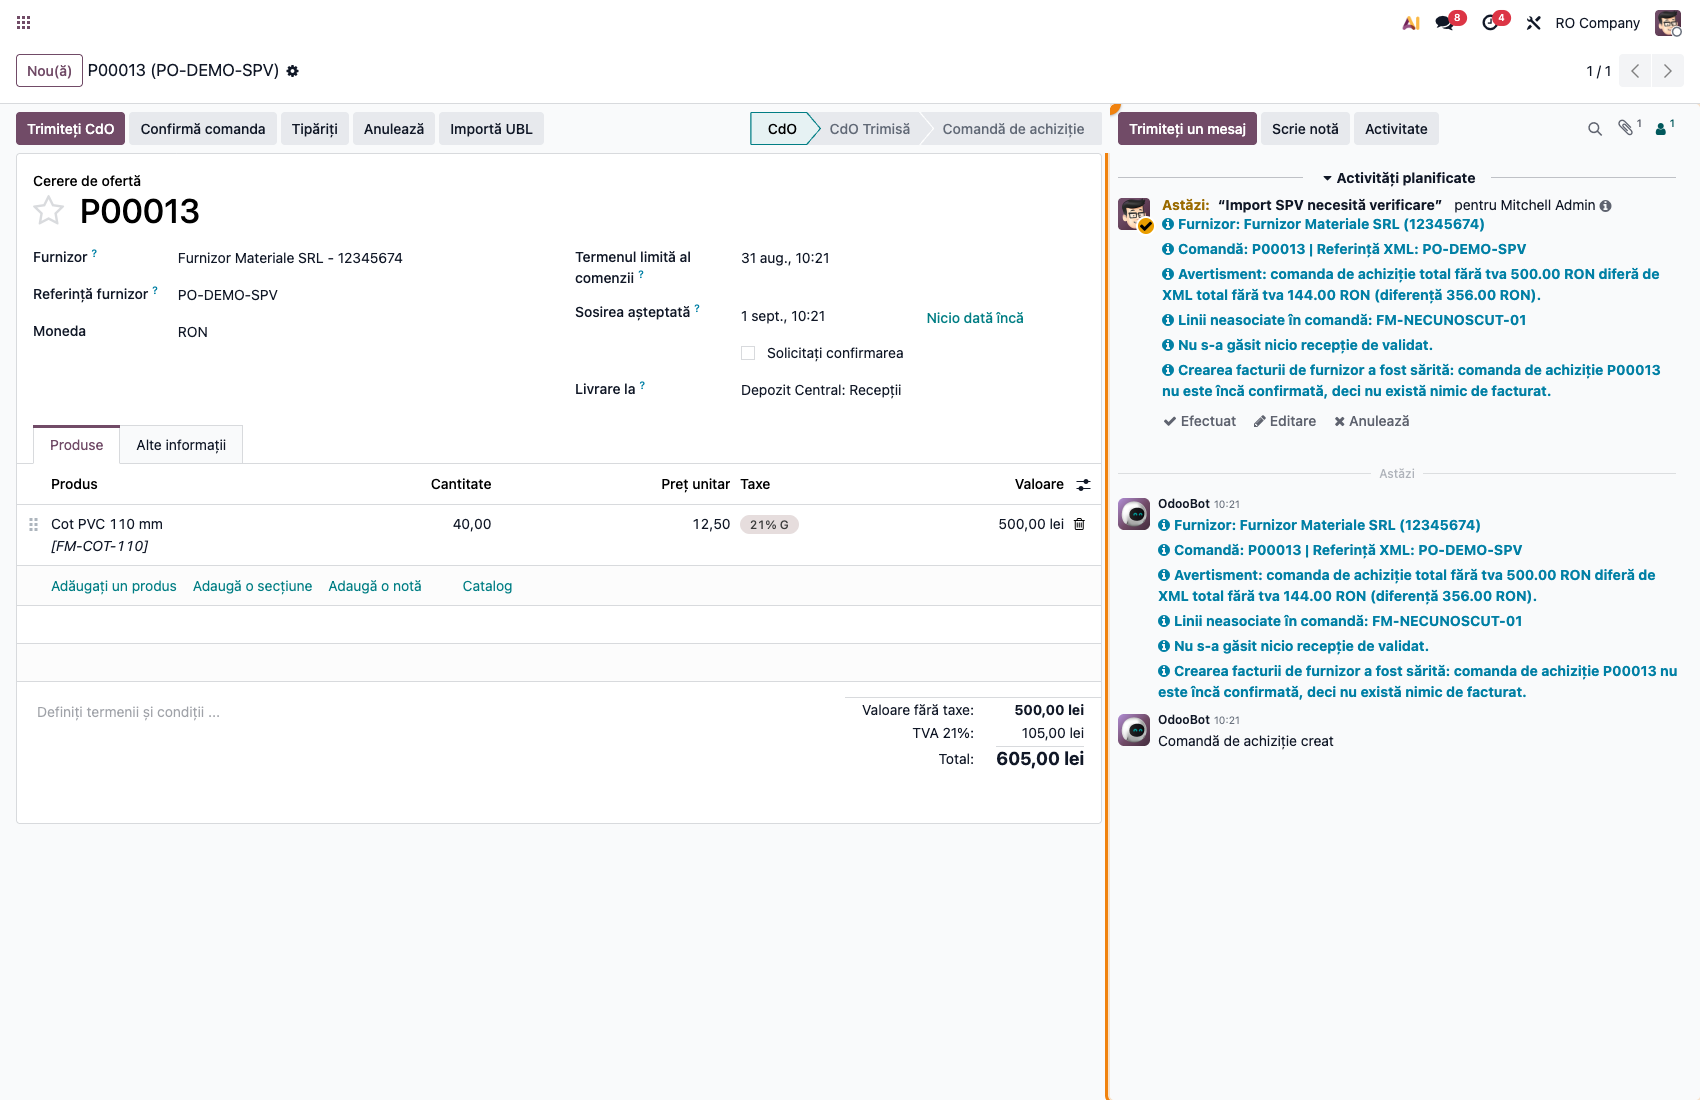
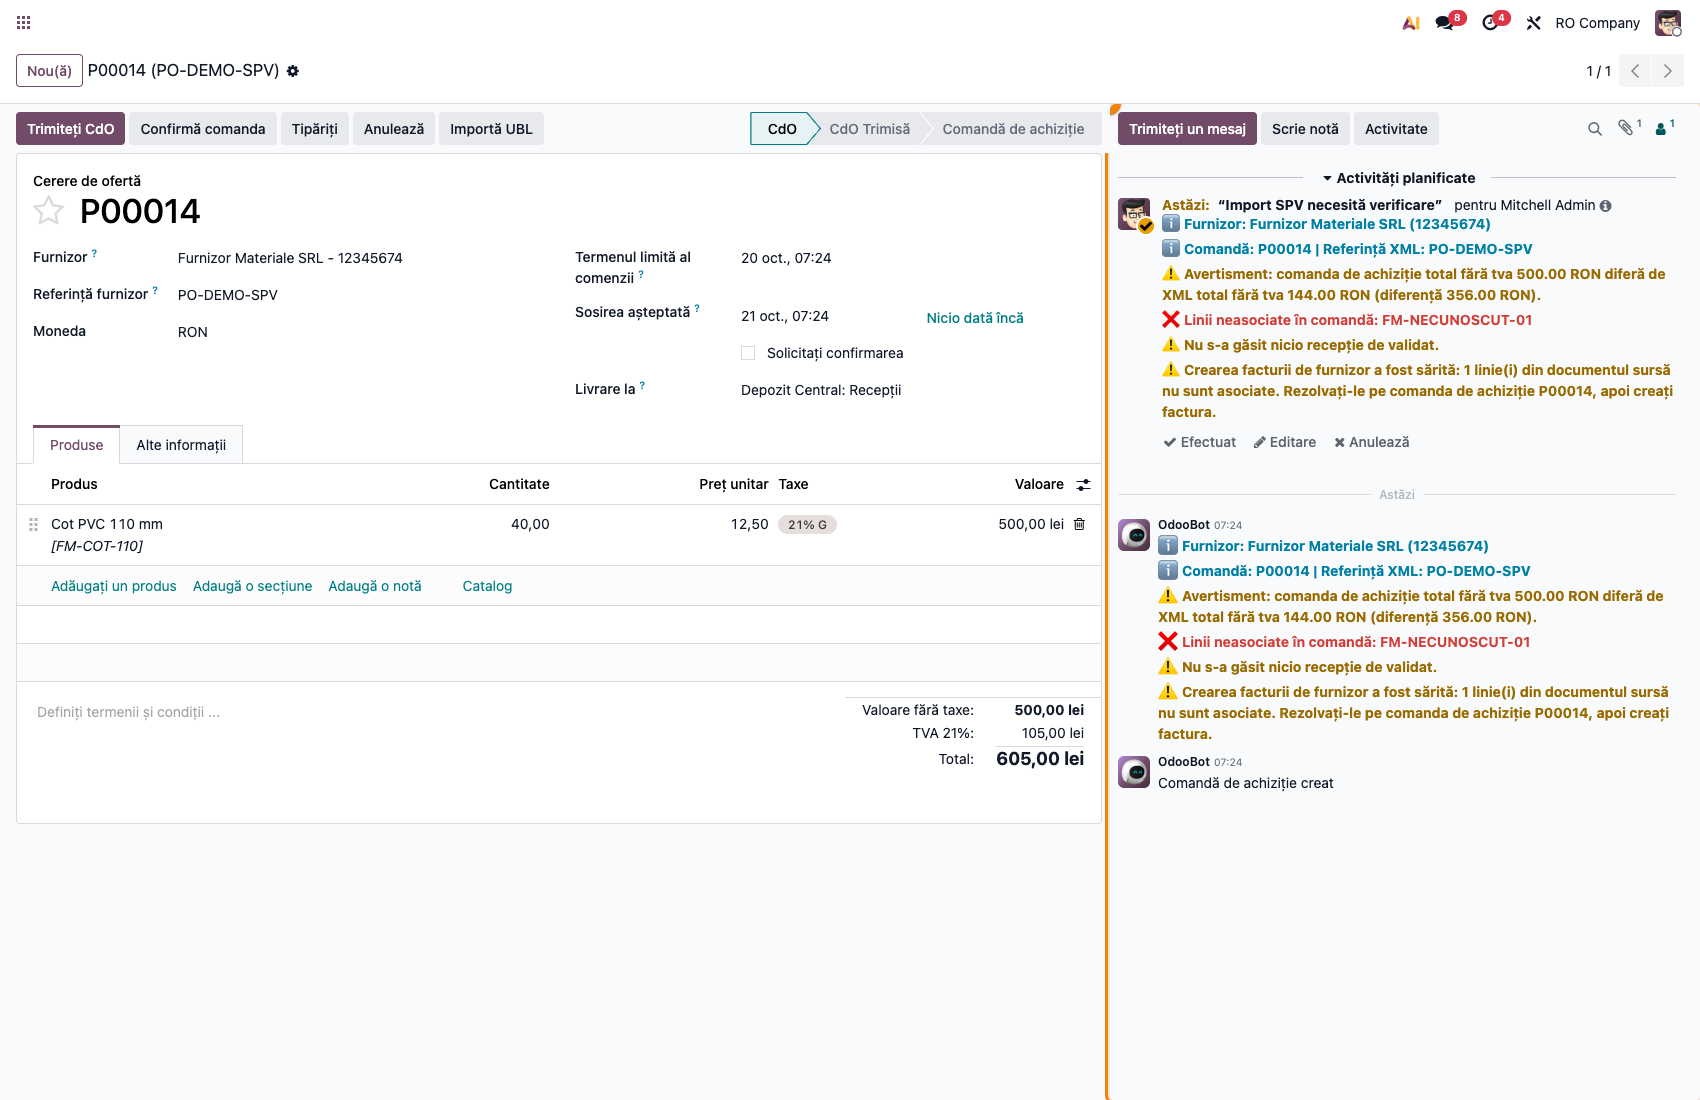
[DOC] fișe SPV în achiziții: capturi noi și jurnal colorat
deltatech_purchase_ubl (19.0.1.4.15): previzualizarea cu coloana Acțiune,
rezultatul cu „Deschide comanda de achiziție", jurnalul cu emoji pe
niveluri. l10n_ro_message_spv_purchase (19.0.0.0.11): notificarea de
import direct și previzualizarea deschisă din mesajul SPV.

Assisted-by: Claude Opus 5.5

diff --git a/deltatech_purchase_ubl/FISA_CONSULTANT.md b/deltatech_purchase_ubl/FISA_CONSULTANT.md
@@ -2,7 +2,7 @@
 
 **Modul:** `deltatech_purchase_ubl`
 **Utilizator principal:** Operator achiziții, contabil furnizori
-**Versiune documentată:** 19.0.1.4.14
+**Versiune documentată:** 19.0.1.4.15
 **Prioritate:** 🔴 Ridicată (parte din fluxul standard de facturare furnizori prin SPV/e-Factura pentru produse stocabile)
 
 ---
@@ -124,6 +124,8 @@ utilizatorul primește doar notificarea **„Invoice imported"**, după care se 
 Dacă oricare condiție cade, importul se anulează complet (nimic nu rămâne scris pe comandă) și se
 deschide previzualizarea de la Pasul 3.
 
+![Factură curată importată direct din mesajul SPV: ① notificarea, ② comanda deschisă](../l10n_ro_message_spv_purchase/screenshots/02_notificare_import_direct.png)
+
 > Liniile găsite doar după nume (galbene) și cele propuse de AI (albastre, cu
 > `deltatech_purchase_ubl_ai`) nu se consideră sigure: deschid previzualizarea.
 
@@ -157,9 +159,6 @@ Coloana **Acțiune** (din 19.0.1.4.14) spune ce face importul cu fiecare linie:
 | **Ignoră** | linia **nu** are produs (roșie) | linia **nu** se importă; apare în jurnal ca neasociată |
 | **Creează produs nou** | niciodată — se alege explicit | creează un produs nou din denumirea liniei din XML și îl adaugă pe comandă |
 
-> Până la actualizarea traducerii `ro.po`, etichetele noi apar în engleză: *Use product*,
-> *Create new product*, *Ignore*, butonul *Open Purchase Order* și notificarea *Invoice imported*.
-
 Pe o linie roșie aveți deci trei variante: alegeți produsul existent din coloana **Produs**
 (acțiunea trece singură pe *Folosește produsul*), alegeți **Creează produs nou**, sau lăsați
 **Ignoră**. Alegerea manuală a unui produs schimbă tipul potrivirii în „Ales manual".
@@ -174,6 +173,8 @@ Pe o linie roșie aveți deci trei variante: alegeți produsul existent din colo
 Sub tabel sunt opțiunile importului, vizibile tot în previzualizare: **Actualizează prețurile de
 furnizor**, **Creează factură furnizor**, **Validează recepția**.
 
+![Previzualizarea: ① linia roșie pe „Ignoră", ② opțiunile importului](screenshots/08_preview_actiune_linie.png)
+
 ### Pasul 4 — Confirmarea importului
 
 Apăsați **Importă**. Liniile cu *Folosește produsul* și *Creează produs nou* sunt scrise pe
@@ -187,6 +188,8 @@ opțiuni:
 
 Fereastra afișează jurnalul importului și butonul **Deschide comanda de achiziție** (din
 19.0.1.4.14), util când importul a fost pornit din mesajul SPV.
+
+![Rezultatul importului: jurnalul și ① butonul Deschide comanda de achiziție](screenshots/09_rezultat_deschide_comanda.png)
 
 ### Pasul 5 — Factura de furnizor creată
 
@@ -206,8 +209,10 @@ deschide, se verifică liniile și taxele preluate din XML, apoi se confirmă.
 Când un XML UBL ajunge pe comandă fără să treacă prin butoane (de exemplu atașat în chatter),
 importul rulează fără interfață. Rezultatul ajunge la operator pe două căi:
 
-1. **Nota din chatter**, cu jurnalul colorat (verde pentru liniile potrivite, roșu/portocaliu
-   pentru probleme);
+1. **Nota din chatter**, cu jurnalul colorat: fiecare mesaj începe cu un emoji după nivel
+   (✅ reușit, ⚠ avertisment, ❌ eroare, ℹ informare) și are culoarea nivelului. Din
+   19.0.1.4.15 nivelul se păstrează și în română (înainte toate mesajele traduse ieșeau
+   albastre);
 2. **Activitatea „Import SPV necesită verificare"**, programată pe comandă când totalul nu se
    potrivește, au rămas linii neasociate, comanda nu mai are nimic de facturat sau documentul e o
    notă de creditare. Nota activității conține jurnalul complet; responsabil e cumpărătorul.
@@ -344,26 +349,22 @@ conturi RO):
 
 | # | Fișier | Conținut | Pas |
 |---|--------|----------|-----|
-| 1 | `screenshots/02_fereastra_importa_ubl.jpg` | Fereastra „Importă UBL", cu XML-ul atașat și butonul Preview | 2 |
-| 2 | `screenshots/03_preview_linie_verde.jpg` | Previzualizare — linie VERDE, găsită după codul de furnizor | 3 |
-| 3 | `screenshots/04_preview_linie_rosie.jpg` | Previzualizare — linie ROȘIE, niciun produs găsit | 3 |
-| 4 | `screenshots/06_preview_linie_galbena.png` | Previzualizare — toate trei culorile, cu linia GALBENĂ evidențiată | 3 |
-| 5 | `screenshots/05_comanda_confirmata_factura.jpg` | Comandă confirmată, cu smart-butonul „Facturi furnizor" | 5 |
-| 6 | `screenshots/07_activitate_verificare.png` | Import automat: activitatea de verificare + jurnalul colorat în chatter | 6 |
+| 1 | `../l10n_ro_message_spv_purchase/screenshots/02_notificare_import_direct.png` | Factură curată importată direct din mesajul SPV: notificarea „Factură importată" și comanda deschisă (captură a modulului SPV) | 1 |
+| 2 | `screenshots/02_fereastra_importa_ubl.jpg` | Fereastra „Importă UBL", cu XML-ul atașat și butonul Preview | 2 |
+| 3 | `screenshots/03_preview_linie_verde.jpg` | Previzualizare — linie VERDE, găsită după codul de furnizor | 3 |
+| 4 | `screenshots/04_preview_linie_rosie.jpg` | Previzualizare — linie ROȘIE, niciun produs găsit | 3 |
+| 5 | `screenshots/06_preview_linie_galbena.png` | Previzualizare — toate trei culorile, cu linia GALBENĂ evidențiată și coloana Acțiune | 3 |
+| 6 | `screenshots/08_preview_actiune_linie.png` | Previzualizarea ca dialog: linia roșie pe „Ignoră" și opțiunile importului | 3 |
+| 7 | `screenshots/09_rezultat_deschide_comanda.png` | Rezultatul importului: jurnalul și butonul „Deschide comanda de achiziție" | 4 |
+| 8 | `screenshots/05_comanda_confirmata_factura.jpg` | Comandă confirmată, cu smart-butonul „Facturi furnizor" | 5 |
+| 9 | `screenshots/07_activitate_verificare.png` | Import automat: activitatea de verificare + jurnalul colorat, cu factura amânată | 6 |
+
+Capturile `.jpg` (02–05) sunt dinainte de 19.0.1.4.14 și nu arată coloana **Acțiune**; ecranele
+noi sunt acoperite de capturile `06`, `08` și `09`, generate din test.
 
 Captura `screenshots/01_avertisment_linii_neasociate.jpg` (avertisment în chatter de la importul
 automat dintr-un mesaj SPV, înainte de 19.0.1.4.14) nu mai corespunde fluxului din mesajul SPV și
 nu mai e folosită în pași.
-
-**De regenerat cu `fisa-screenshots`** — capturile previzualizării de mai sus sunt dinainte de
-19.0.1.4.14 și nu arată coloana **Acțiune** și opțiunile de sub tabel. Shot-uri noi de adăugat în
-`tests/test_screenshots.py`:
-
-| # | Fișier planificat | Conținut vizat | Pas |
-|---|---|---|---|
-| 1 | `screenshots/08_notificare_import_direct.png` | Notificarea „Invoice imported" după Găsește/Creează Comanda pe o factură curată | 1 |
-| 2 | `screenshots/09_preview_actiune_linie.png` | Previzualizarea cu coloana **Acțiune** (*Folosește produsul* / *Ignoră* / *Creează produs nou*) și opțiunile de sub tabel | 3 |
-| 3 | `screenshots/10_rezultat_deschide_comanda.png` | Pasul de rezultat, cu jurnalul și butonul **Deschide comanda de achiziție** | 4 |
 
 ## 11. Observații pentru manual
 

diff --git a/l10n_ro_message_spv_purchase/FISA_CONSULTANT.md b/l10n_ro_message_spv_purchase/FISA_CONSULTANT.md
@@ -173,6 +173,10 @@ La legare, modulul:
    **Creează factură furnizor** e bifat doar dacă factura din SPV nu există încă în Odoo; altfel
    importul ar crea o a doua factură.
 
+![Factură curată: ① notificarea „Factură importată", ② comanda creată și deschisă](screenshots/02_notificare_import_direct.png)
+
+![Factură cu o linie neidentificată: previzualizarea, cu ① linia pe „Ignoră"](screenshots/03_preview_decizie_linii.png)
+
 > Înainte de 19.0.0.0.10, legarea pornea importul automat, fără fereastră, iar liniile pe care
 > sistemul nu le identifica se pierdeau de pe comandă (rămâneau doar în jurnalul din chatter).
 
@@ -328,12 +332,16 @@ localizării RO („RO Company", RON, plan de conturi RO):
 |---|--------|----------|
 | 1 | `screenshots/01_mesaj_spv_butoane.png` | Formularul mesajului SPV: ① **Găsește Comanda**, ② **Creează Comanda**, ③ câmpul **Referință achiziție** completat automat din XML |
 
-Rămân **de realizat cu `fisa-screenshots`** (extindeți testul de capturi cu shot-uri noi):
+| # | Fișier | Conținut |
+|---|--------|----------|
+| 2 | `screenshots/02_notificare_import_direct.png` | **Creează Comanda** pe o factură curată: notificarea „Factură importată" și comanda deschisă |
+| 3 | `screenshots/03_preview_decizie_linii.png` | **Creează Comanda** pe o factură cu o linie neidentificată: previzualizarea, cu linia pe **Ignoră** |
+
+Capturile `02` și `03` se generează doar cu `deltatech_purchase_ubl` instalat (instalați-l în
+comanda de mai sus). Rămân **de realizat** (extindeți testul de capturi):
 
 | # | Fișier planificat | Conținut vizat | Pas |
 |---|---|---|---|
-| 2 | `screenshots/02_notificare_import_direct.png` | Notificarea „Invoice imported" după Creează Comanda, pe o factură curată | 3 |
-| 3 | `screenshots/03_preview_decizie_linii.png` | Previzualizarea deschisă din mesaj, cu o linie neidentificată pe **Ignoră** și coloana **Acțiune** | 3 |
 | 4 | `screenshots/04_avertisment_duplicat.png` | Nota „Atenție duplicat: comanda de achiziție ... are deja factura ..." în chatter | 5 |
 | 5 | `screenshots/05_garda_reprocesare.png` | Dialogul de eroare la al doilea click pe Găsește/Creează Comanda | 6 |
 
